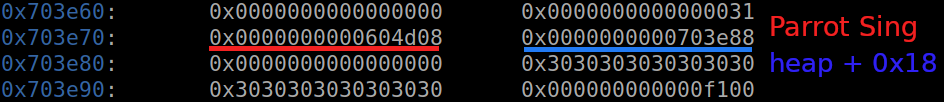
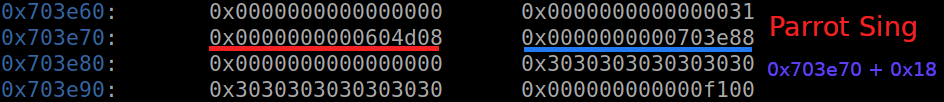
Update README.md

Changed region(s): [[0.7987, 0.5, 1.0, 0.7647]]

diff --git a/README.md b/README.md
@@ -41,7 +41,7 @@ Secondly, main() will print out the menu, then read in the command, just the com
 
 Thirdly, capture() will get input of index and name of bird (such as `cock`, `owl` and `parrot`). After getting input, it will check if `cage[index]` is null or not. If not null, it will free() at position correspond to index. 
 
-After that, it will `operator.new()` which similar to malloc(). Cock and Owl will malloc with constant string while parrot will malloc and get string from our input. One thing to notice is that `cin` in parrot will get unlimited input --> `Heap Buffer Overflow`
+After that, it will `operator.new()` which similar to malloc(). Cock and Owl will malloc with constant string while parrot will malloc and get string from our input. One thing to notice is that `cin` in parrot will get unlimited input --> **Heap Buffer Overflow**
 
 ```
 // Address: 0x0000000000402848
@@ -49,18 +49,22 @@ void __thiscall Parrot::Parrot(Parrot *this)
 
 {
 	char *pcVar1;
-  
+
+	// Inherit of bird
 	Bird::Bird((Bird *)this);
 	
-	// 
+	// Add parrot:sing address to chunk
 	*(undefined ***)this = &PTR_sing_00604d08;
+
+	// Add buffer address
+	// buffer address = curent heap address + 0x18
 	std::__cxx11::basic_string<char,std::char_traits<char>,std::allocator<char>>::basic_string
 			((basic_string<char,std::char_traits<char>,std::allocator<char>> *)(this + 8));
 
     // cout << "Pls talk: ";
     std::operator<<((basic_ostream *)std::cout,"Pls talk: ");
     
-    // Get the current heap address + 0x18 = pcVar1
+    // Get the buffer
     pcVar1 = (char *)std::__cxx11::basic_string<char,std::char_traits<char>,std::allocator<char>>::
 			data((basic_string<char,std::char_traits<char>,std::allocator<char>> *)(this + 8)
                        );
@@ -75,6 +79,90 @@ When look at GDB, it will be like this:
 
 ![parrot_GDB.png](images/parrot_GDB.png)
 
-And with unlimited input, we can overwrite all the next heap to do whatever we want.
+With unlimited input, we can overwrite all the next heap to do whatever we want. And one more thing we need to know that cin will auto add null byte at the end of input.
 
-The forth function is sing, which will take 
+The forth function is sing, which will **execute** function sing of the correspond bird. Remember that it take the address from heap, then execute the address in it. For example as below:
+
+![parrot_sing_GDB.png](images/parrot_sing_GDB.png)
+
+The address `0x0000000000604d08` contains parrot::sing address `0x00000000004028e4`. As the result, it will execute `0x00000000004028e4`, not `0x0000000000604d08`.
+
+The fifth function is dismiss, which will free() the chunk and set `cage[index]=0` so there is no use after free.
+
+- Summary all bugs:
+
+  1. Heap Buffer Overflow
+
+  2. cin will auto add null byte at the end of user input
+
+  3. Sing() will execute function inside a parent address
+
+  4. Sing() will print out the data until null byte or space
+
+  5. `cage` is a global variable
+
+# 2. Idea
+
+We know that we have heap buffer overflow, with which we can do arbitrary write and Sing() will print out data for us. The first thing we are going to do is leak the heap and libc address via `cage` (`cage` is global var so address will be the same because of `No PIE`) and `@got` (I will use `alarm@got`)
+
+With address of libc and heap, we can make it Sing() to execute libc function which create shell for us. But after I did, I realize we also need to leak stack address. From leaked stack address, we will calculate the return address of main, then arbitrarily write to return and we get shell.
+
+- Summary:
+
+  1. Leak heap address
+
+  2. Leak libc address
+
+  3. Leak stack address
+
+  4. Get shell
+
+# 3. Exploit
+
+Table of content:
+
+  1. Leak heap address
+
+  2. Leak libc address
+
+  3. Leak stack address
+
+  4. Get shell
+
+---
+
+We will makes some functions to help us exploit more convinient:
+
+<details>
+<summary>Code snippet</summary>
+<p>
+
+```
+def capture(index, bird, talk=''):
+	data = 'capture ' + str(index) + ' ' + bird
+	p.sendlineafter(b'>', data.encode())
+	if bird=='parrot':
+		p.sendlineafter(b'Pls talk:', talk)
+
+def sing(index):
+	p.sendlineafter(b'>', 'sing {}'.format(index).encode())
+	return p.recvuntil(b'>')
+
+def dismiss(index):
+	p.sendlineafter(b'>', 'dismiss {}'.format(index).encode())
+
+def list():
+	p.sendlineafter(b'>', b'list')
+
+def leave():
+	p.sendlineafter(b'>', b'leave')
+```
+
+</p>
+</details>
+
+And now let's start
+
+### Stage 1: Leak heap address
+
+We know that Sing() will execute function inside `0x0000000000604d08` and print data of the next 8-byte address
